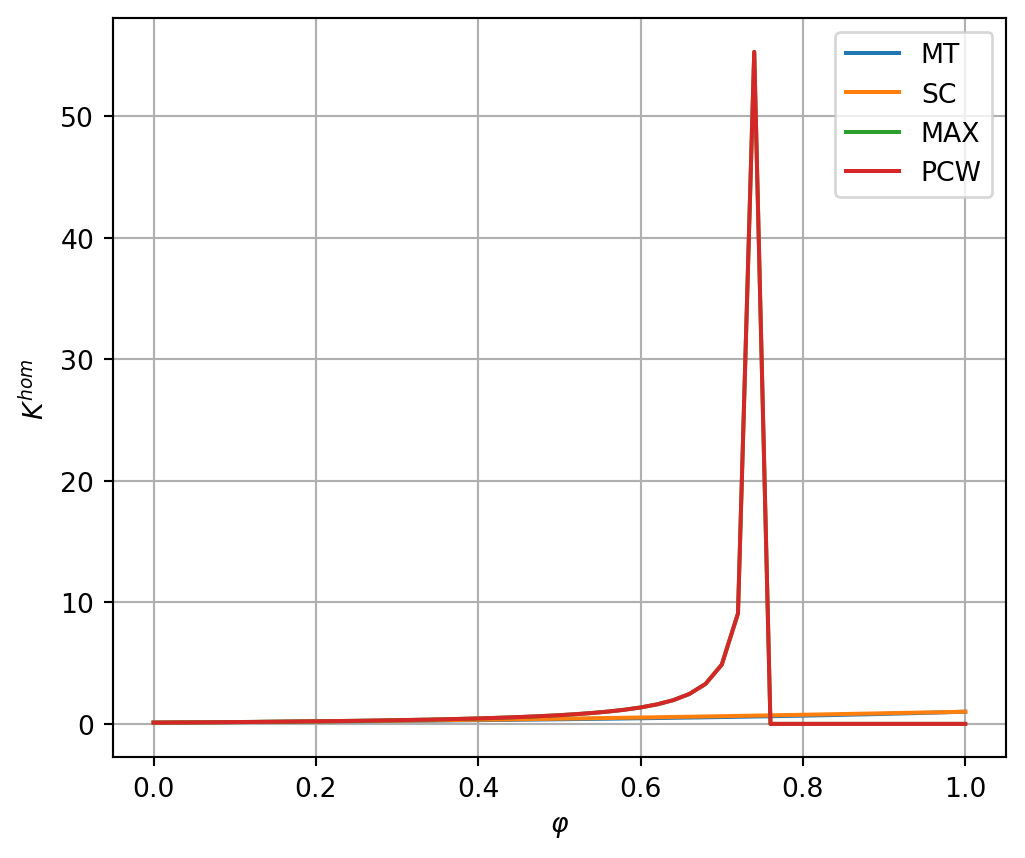
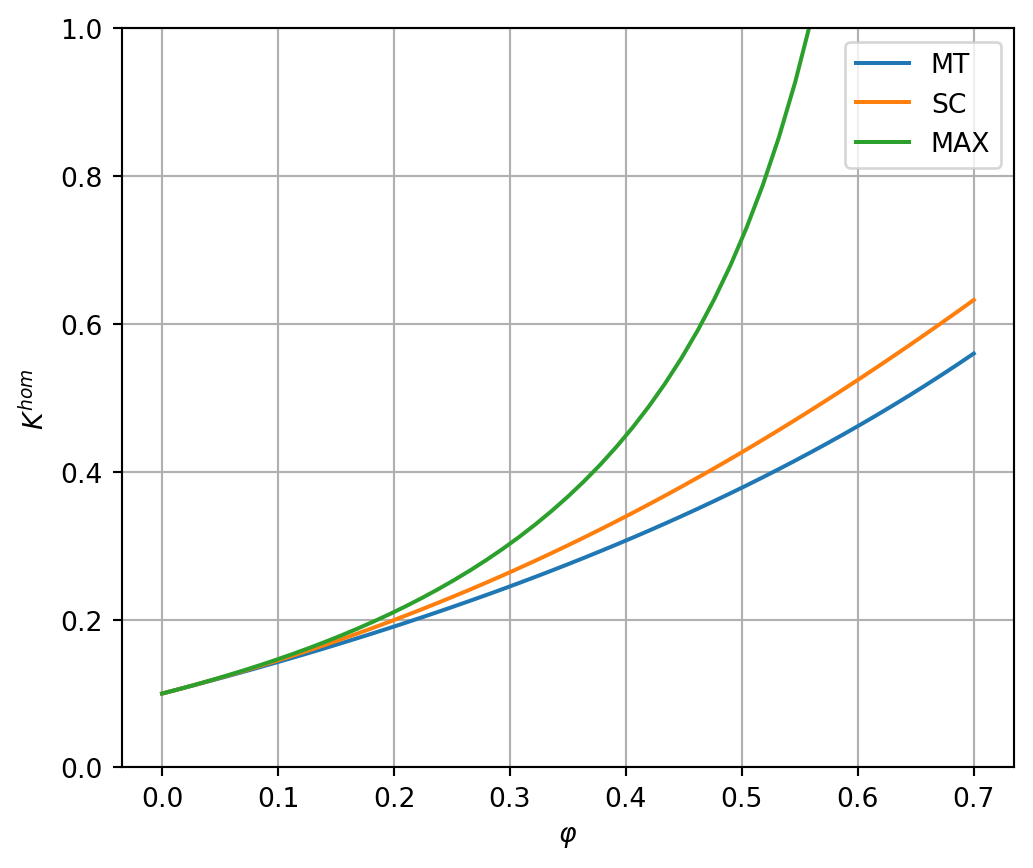
Correct porous media section

diff --git a/docs/5_cracked_porous/porous_media.html b/docs/5_cracked_porous/porous_media.html
@@ -931,7 +931,7 @@ $$
 </div>
 <div id="callout-2" class="callout-2-contents callout-collapse collapse">
 <div class="callout-body-container callout-body">
-<div id="125bd1ba" class="cell" data-execution_count="1">
+<div id="dabd049e" class="cell" data-execution_count="1">
 <div class="code-copy-outer-scaffold"><div class="sourceCode cell-code" id="cb1"><pre class="sourceCode python code-with-copy"><code class="sourceCode python"><span id="cb1-1"><a href="#cb1-1" aria-hidden="true" tabindex="-1"></a><span class="im">import</span> numpy <span class="im">as</span> np</span>
 <span id="cb1-2"><a href="#cb1-2" aria-hidden="true" tabindex="-1"></a><span class="im">from</span> echoes <span class="im">import</span> <span class="op">*</span></span>
 <span id="cb1-3"><a href="#cb1-3" aria-hidden="true" tabindex="-1"></a><span class="im">import</span> math</span>
@@ -945,7 +945,7 @@ $$
 <section id="porous-medium-modeling" class="level2">
 <h2 class="anchored" data-anchor-id="porous-medium-modeling">Porous medium modeling</h2>
 <p>A porous medium is modeled as a composite in which the voids are treated as inclusions with zero (or near-zero) stiffness:</p>
-<div id="6777ba6f" class="cell" data-execution_count="2">
+<div id="4372c850" class="cell" data-execution_count="2">
 <div class="code-copy-outer-scaffold"><div class="sourceCode cell-code" id="cb2"><pre class="sourceCode python code-with-copy"><code class="sourceCode python"><span id="cb2-1"><a href="#cb2-1" aria-hidden="true" tabindex="-1"></a>ks, mus <span class="op">=</span> <span class="fl">72.</span>, <span class="fl">32.</span></span>
 <span id="cb2-2"><a href="#cb2-2" aria-hidden="true" tabindex="-1"></a>kp, mup <span class="op">=</span> <span class="fl">1.e-6</span>, <span class="fl">1.e-6</span></span>
 <span id="cb2-3"><a href="#cb2-3" aria-hidden="true" tabindex="-1"></a></span>
@@ -959,7 +959,7 @@ $$
 <section id="sec-porous-comparison" class="level2">
 <h2 class="anchored" data-anchor-id="sec-porous-comparison">Scheme comparison on porous media</h2>
 <p>The following example computes the effective bulk and shear moduli versus porosity for all available schemes.</p>
-<div id="85b7c603" class="cell" data-execution_count="3">
+<div id="beb22d7e" class="cell" data-execution_count="3">
 <details class="code-fold">
 <summary>Figure — scheme comparison on porous media</summary>
 <div class="code-copy-outer-scaffold"><div class="sourceCode cell-code" id="cb3"><pre class="sourceCode python code-with-copy"><code class="sourceCode python"><span id="cb3-1"><a href="#cb3-1" aria-hidden="true" tabindex="-1"></a><span class="kw">def</span> Chom_porous(myrve, phi, sch):</span>
@@ -1003,8 +1003,8 @@ $$
 </section>
 <section id="effect-of-pore-shape" class="level2">
 <h2 class="anchored" data-anchor-id="effect-of-pore-shape">Effect of pore shape</h2>
-<p>The aspect ratio of pores significantly affects the effective properties. Oblate pores (<span class="math inline">\(\omega &lt; 1\)</span>) lead to softer behavior than spherical pores (<span class="math inline">\(\omega = 1\)</span>), while prolate pores (<span class="math inline">\(\omega &gt; 1\)</span>) produce an intermediate effect.</p>
-<div id="79ccdc85" class="cell" data-execution_count="4">
+<p>The aspect ratio of pores significantly affects the effective properties. Both oblate (<span class="math inline">\(\omega &lt; 1\)</span>) and prolate (<span class="math inline">\(\omega &gt; 1\)</span>) pores lead to softer behavior than spherical pores (<span class="math inline">\(\omega = 1\)</span>), i.e.&nbsp;the effective moduli decrease more rapidly with porosity.</p>
+<div id="0c5e6538" class="cell" data-execution_count="4">
 <details class="code-fold">
 <summary>Figure — effect of pore shape</summary>
 <div class="code-copy-outer-scaffold"><div class="sourceCode cell-code" id="cb4"><pre class="sourceCode python code-with-copy"><code class="sourceCode python"><span id="cb4-1"><a href="#cb4-1" aria-hidden="true" tabindex="-1"></a>lphi <span class="op">=</span> np.linspace(<span class="fl">0.</span>, <span class="fl">0.5</span>, <span class="dv">51</span>)</span>
@@ -1039,12 +1039,12 @@ $$
 </section>
 <section id="percolation-threshold" class="level2">
 <h2 class="anchored" data-anchor-id="percolation-threshold">Percolation threshold</h2>
-<p>In the self-consistent scheme, the effective moduli vanish at a critical porosity (percolation threshold) that depends on the pore aspect ratio. For spherical pores (<span class="math inline">\(\omega=1\)</span>), the percolation threshold is <span class="math inline">\(\phi_c=0.5\)</span>. For oblate pores (<span class="math inline">\(\omega \to 0\)</span>), the threshold tends to 1, while for prolate pores (<span class="math inline">\(\omega \to \infty\)</span>), it tends to 0.</p>
+<p>In the self-consistent scheme, the effective moduli vanish at a critical porosity (percolation threshold) that depends on the pore aspect ratio. For spherical pores (<span class="math inline">\(\omega=1\)</span>), the percolation threshold is <span class="math inline">\(\phi_c=0.5\)</span>. Both flattening (<span class="math inline">\(\omega &lt; 1\)</span>) and elongating (<span class="math inline">\(\omega &gt; 1\)</span>) the pores lower the percolation threshold below <span class="math inline">\(0.5\)</span>: non-spherical pores create more connectivity at a given volume fraction, so the medium loses its stiffness earlier.</p>
 </section>
 <section id="sec-permeability" class="level2">
 <h2 class="anchored" data-anchor-id="sec-permeability">Permeability of porous media</h2>
 <p>Transport properties (permeability, conductivity, diffusivity) are described by 2nd-order tensors and can be homogenized with the same framework using <code>prop="K"</code>:</p>
-<div id="49784b9d" class="cell" data-execution_count="5">
+<div id="8d56071d" class="cell" data-execution_count="5">
 <details class="code-fold">
 <summary>Figure — permeability of a porous medium</summary>
 <div class="code-copy-outer-scaffold"><div class="sourceCode cell-code" id="cb5"><pre class="sourceCode python code-with-copy"><code class="sourceCode python"><span id="cb5-1"><a href="#cb5-1" aria-hidden="true" tabindex="-1"></a>Ks <span class="op">=</span> <span class="fl">0.1</span> <span class="op">*</span> tId2    <span class="co"># solid conductivity</span></span>
@@ -1056,9 +1056,9 @@ $$
 <span id="cb5-7"><a href="#cb5-7" aria-hidden="true" tabindex="-1"></a>myrve_K[<span class="st">"PORE"</span>] <span class="op">=</span> ellipsoid(shape<span class="op">=</span>spheroidal(<span class="fl">0.1</span>), symmetrize<span class="op">=</span>[ISO],</span>
 <span id="cb5-8"><a href="#cb5-8" aria-hidden="true" tabindex="-1"></a>                            prop<span class="op">=</span>{<span class="st">"K"</span>: Kp})</span>
 <span id="cb5-9"><a href="#cb5-9" aria-hidden="true" tabindex="-1"></a></span>
-<span id="cb5-10"><a href="#cb5-10" aria-hidden="true" tabindex="-1"></a>lphi <span class="op">=</span> np.linspace(<span class="fl">0.</span>, <span class="fl">1.</span>, <span class="dv">51</span>)</span>
+<span id="cb5-10"><a href="#cb5-10" aria-hidden="true" tabindex="-1"></a>lphi <span class="op">=</span> np.linspace(<span class="fl">0.</span>, <span class="fl">0.7</span>, <span class="dv">51</span>)</span>
 <span id="cb5-11"><a href="#cb5-11" aria-hidden="true" tabindex="-1"></a>fig, ax <span class="op">=</span> plt.subplots(figsize<span class="op">=</span>(<span class="dv">6</span>, <span class="dv">5</span>))</span>
-<span id="cb5-12"><a href="#cb5-12" aria-hidden="true" tabindex="-1"></a><span class="cf">for</span> sch <span class="kw">in</span> [MT, SC, MAX, PCW]:</span>
+<span id="cb5-12"><a href="#cb5-12" aria-hidden="true" tabindex="-1"></a><span class="cf">for</span> sch <span class="kw">in</span> [MT, SC, MAX]:</span>
 <span id="cb5-13"><a href="#cb5-13" aria-hidden="true" tabindex="-1"></a>    lK <span class="op">=</span> []</span>
 <span id="cb5-14"><a href="#cb5-14" aria-hidden="true" tabindex="-1"></a>    <span class="cf">for</span> phi <span class="kw">in</span> lphi:</span>
 <span id="cb5-15"><a href="#cb5-15" aria-hidden="true" tabindex="-1"></a>        myrve_K[<span class="st">"PORE"</span>].fraction <span class="op">=</span> phi</span>
@@ -1073,13 +1073,14 @@ $$
 <span id="cb5-24"><a href="#cb5-24" aria-hidden="true" tabindex="-1"></a>    ax.plot(lphi, lK, label<span class="op">=</span><span class="bu">str</span>(sch))</span>
 <span id="cb5-25"><a href="#cb5-25" aria-hidden="true" tabindex="-1"></a></span>
 <span id="cb5-26"><a href="#cb5-26" aria-hidden="true" tabindex="-1"></a>ax.set_xlabel(<span class="vs">r"</span><span class="dv">$</span><span class="ch">\v</span><span class="vs">arphi</span><span class="dv">$</span><span class="vs">"</span>)<span class="op">;</span> ax.set_ylabel(<span class="vs">r"</span><span class="dv">$</span><span class="vs">K</span><span class="dv">^</span><span class="vs">{hom}</span><span class="dv">$</span><span class="vs">"</span>)</span>
-<span id="cb5-27"><a href="#cb5-27" aria-hidden="true" tabindex="-1"></a>ax.grid(<span class="va">True</span>)<span class="op">;</span> ax.legend()</span>
-<span id="cb5-28"><a href="#cb5-28" aria-hidden="true" tabindex="-1"></a>plt.show()</span></code></pre></div><button title="Copy to Clipboard" class="code-copy-button"><i class="bi"></i></button></div>
+<span id="cb5-27"><a href="#cb5-27" aria-hidden="true" tabindex="-1"></a>ax.set_ylim(<span class="fl">0.</span>, <span class="fl">1.</span>)</span>
+<span id="cb5-28"><a href="#cb5-28" aria-hidden="true" tabindex="-1"></a>ax.grid(<span class="va">True</span>)<span class="op">;</span> ax.legend()</span>
+<span id="cb5-29"><a href="#cb5-29" aria-hidden="true" tabindex="-1"></a>plt.show()</span></code></pre></div><button title="Copy to Clipboard" class="code-copy-button"><i class="bi"></i></button></div>
 </details>
 <div class="cell-output cell-output-display">
 <div>
 <figure class="figure">
-<p><img src="porous_media_files/figure-html/cell-6-output-1.png" width="513" height="429" class="figure-img"></p>
+<p><img src="porous_media_files/figure-html/cell-6-output-1.png" width="517" height="434" class="figure-img"></p>
 </figure>
 </div>
 </div>

diff --git a/5_cracked_porous/porous_media.py b/5_cracked_porous/porous_media.py
@@ -121,7 +121,7 @@ plt.show()
 
 # ## Effect of pore shape
 #
-# The aspect ratio of pores significantly affects the effective properties. Oblate pores ($\omega < 1$) lead to softer behavior than spherical pores ($\omega = 1$), while prolate pores ($\omega > 1$) produce an intermediate effect.
+# The aspect ratio of pores significantly affects the effective properties. Both oblate ($\omega < 1$) and prolate ($\omega > 1$) pores lead to softer behavior than spherical pores ($\omega = 1$), i.e. the effective moduli decrease more rapidly with porosity.
 
 # +
 #| error: false
@@ -153,7 +153,7 @@ plt.show()
 
 # ## Percolation threshold
 #
-# In the self-consistent scheme, the effective moduli vanish at a critical porosity (percolation threshold) that depends on the pore aspect ratio. For spherical pores ($\omega=1$), the percolation threshold is $\phi_c=0.5$. For oblate pores ($\omega \to 0$), the threshold tends to 1, while for prolate pores ($\omega \to \infty$), it tends to 0.
+# In the self-consistent scheme, the effective moduli vanish at a critical porosity (percolation threshold) that depends on the pore aspect ratio. For spherical pores ($\omega=1$), the percolation threshold is $\phi_c=0.5$. Both flattening ($\omega < 1$) and elongating ($\omega > 1$) the pores lower the percolation threshold below $0.5$: non-spherical pores create more connectivity at a given volume fraction, so the medium loses its stiffness earlier.
 #
 # ## Permeability of porous media {#sec-permeability}
 #
@@ -174,9 +174,9 @@ myrve_K["SOLID"] = ellipsoid(shape=spheroidal(1.), symmetrize=[ISO],
 myrve_K["PORE"] = ellipsoid(shape=spheroidal(0.1), symmetrize=[ISO],
                             prop={"K": Kp})
 
-lphi = np.linspace(0., 1., 51)
+lphi = np.linspace(0., 0.7, 51)
 fig, ax = plt.subplots(figsize=(6, 5))
-for sch in [MT, SC, MAX, PCW]:
+for sch in [MT, SC, MAX]:
     lK = []
     for phi in lphi:
         myrve_K["PORE"].fraction = phi
@@ -191,6 +191,7 @@ for sch in [MT, SC, MAX, PCW]:
     ax.plot(lphi, lK, label=str(sch))
 
 ax.set_xlabel(r"$\varphi$"); ax.set_ylabel(r"$K^{hom}$")
+ax.set_ylim(0., 1.)
 ax.grid(True); ax.legend()
 plt.show()
 # -

diff --git a/docs/5_cracked_porous/porous_media.py b/docs/5_cracked_porous/porous_media.py
@@ -121,7 +121,7 @@ plt.show()
 
 # ## Effect of pore shape
 #
-# The aspect ratio of pores significantly affects the effective properties. Oblate pores ($\omega < 1$) lead to softer behavior than spherical pores ($\omega = 1$), while prolate pores ($\omega > 1$) produce an intermediate effect.
+# The aspect ratio of pores significantly affects the effective properties. Both oblate ($\omega < 1$) and prolate ($\omega > 1$) pores lead to softer behavior than spherical pores ($\omega = 1$), i.e. the effective moduli decrease more rapidly with porosity.
 
 # +
 #| error: false
@@ -153,7 +153,7 @@ plt.show()
 
 # ## Percolation threshold
 #
-# In the self-consistent scheme, the effective moduli vanish at a critical porosity (percolation threshold) that depends on the pore aspect ratio. For spherical pores ($\omega=1$), the percolation threshold is $\phi_c=0.5$. For oblate pores ($\omega \to 0$), the threshold tends to 1, while for prolate pores ($\omega \to \infty$), it tends to 0.
+# In the self-consistent scheme, the effective moduli vanish at a critical porosity (percolation threshold) that depends on the pore aspect ratio. For spherical pores ($\omega=1$), the percolation threshold is $\phi_c=0.5$. Both flattening ($\omega < 1$) and elongating ($\omega > 1$) the pores lower the percolation threshold below $0.5$: non-spherical pores create more connectivity at a given volume fraction, so the medium loses its stiffness earlier.
 #
 # ## Permeability of porous media {#sec-permeability}
 #
@@ -174,9 +174,9 @@ myrve_K["SOLID"] = ellipsoid(shape=spheroidal(1.), symmetrize=[ISO],
 myrve_K["PORE"] = ellipsoid(shape=spheroidal(0.1), symmetrize=[ISO],
                             prop={"K": Kp})
 
-lphi = np.linspace(0., 1., 51)
+lphi = np.linspace(0., 0.7, 51)
 fig, ax = plt.subplots(figsize=(6, 5))
-for sch in [MT, SC, MAX, PCW]:
+for sch in [MT, SC, MAX]:
     lK = []
     for phi in lphi:
         myrve_K["PORE"].fraction = phi
@@ -191,6 +191,7 @@ for sch in [MT, SC, MAX, PCW]:
     ax.plot(lphi, lK, label=str(sch))
 
 ax.set_xlabel(r"$\varphi$"); ax.set_ylabel(r"$K^{hom}$")
+ax.set_ylim(0., 1.)
 ax.grid(True); ax.legend()
 plt.show()
 # -
